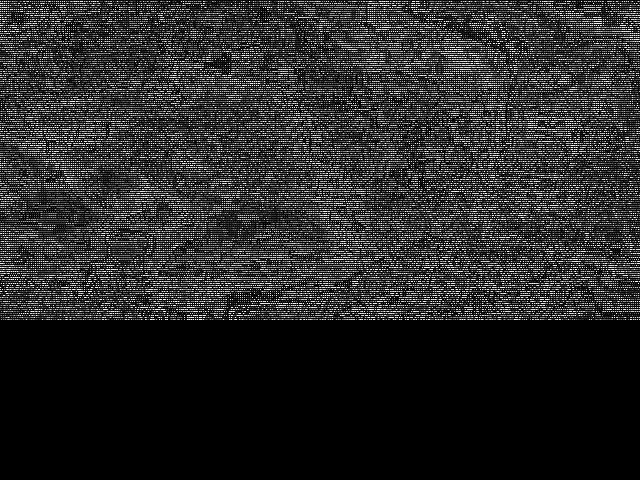
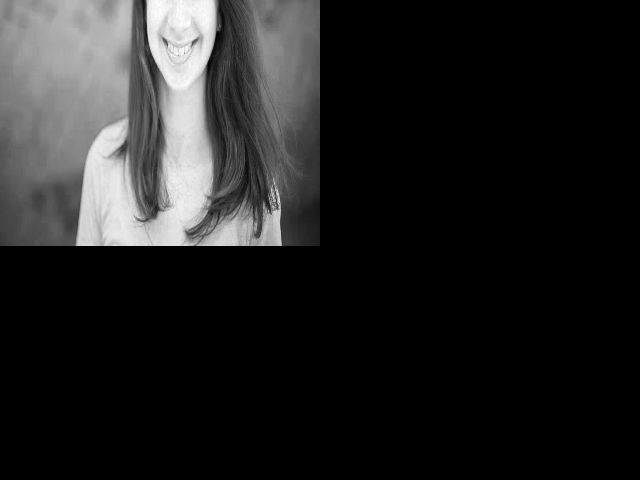
Fix decryption errors

diff --git a/VGA/simulator.py b/VGA/simulator.py
@@ -5,7 +5,7 @@ import os
 IMAGE_EXTENSION = "png"
 
 # VGA DATA
-FRAMES = 1
+FRAMES = 2
 H_BACK_PORCH = 143
 H_FRONT_PORCH = 784
 V_BACK_PORCH = 34
@@ -18,7 +18,7 @@ SIZE = WIDTH * HEIGHT
 # OPEN TESTBENCH FILE
 DIRECTORY = open(os.path.dirname(os.getcwd()) +
                  '\\quartus_directory.txt', 'r').read()
-FILE = open(DIRECTORY + '\\vga_encrypted.txt', "r")
+FILE = open(DIRECTORY + '\\vga_decrypted.txt', "r")
 PIXEL_INFO = FILE.read().split('\n')
 # NOTE: Testbench pixel info format = h_sync (1b) v_sync (1b) red (3b) green (3b) blue (2b)
 
